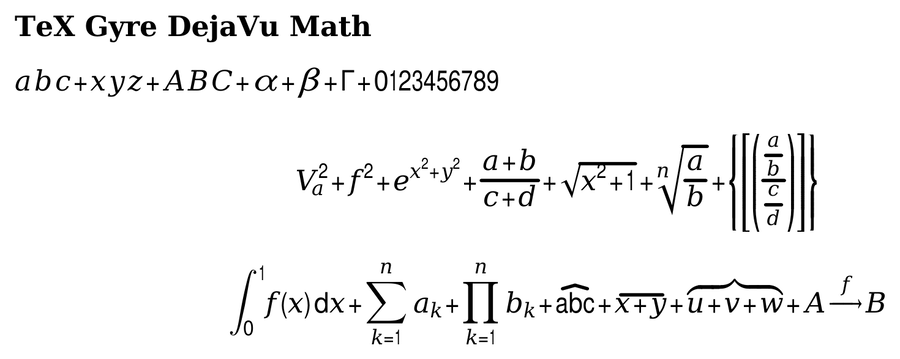
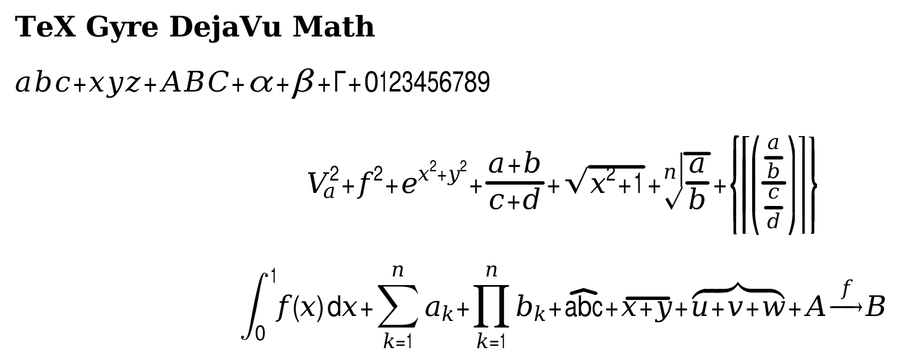
Name font companions by master, and stop the log spam
Opening a sample in the editor printed thousands of lines. Three causes.

A profile named its companions by family, where the font selection is
driven by masters: the master of "Fira Sans" is "Fira" and the master of
"KpRoman" is "Kepler", so five groups of profiles (DejaVu, Libertinus,
Kp, Fira, IBM Plex) never resolved and fell back to the feature distance,
printing "missing 'Fira Sans' master" at every lookup. They name masters
now, and profile_fix translates whatever it produces through the new
font_database_master, which answers from the features database without
guessing and without printing, so a profile that names a family still
resolves. font-features.scm gains ten entries for profiled math fonts it
did not know, TeX Gyre DejaVu Math and Lete Sans Math among them.

The visible effect: the text of a Fira Math document is Fira Sans and not
the default serif, math typewriter of KpMath is KpMono, and the emulated
script and blackboard bold alphabets of TeX Gyre DejaVu Math are spaced
correctly. Three sample pages and two gallery specimens change, all in
that direction; the rest is unchanged to the pixel.

"parse_mathtable : glyphCoverageFormat 20 not supported" was a NULL
offset of the kind already fixed in MathGlyphInfo: the vertical and
horizontal glyph coverage offsets of MathVariants may be zero, and the
parser then read minConnectorOverlap as a coverage format, which is where
the 20 and the 100 came from. The kern info and italic correction
[…]

diff --git a/src/Plugins/Freetype/tt_tools.cpp b/src/Plugins/Freetype/tt_tools.cpp
@@ -494,7 +494,7 @@ parse_coverage_table (const string& tt, int offset) {
     }
   }
   else {
-    cout << "parse_mathtable : glyphCoverageFormat " << format
+    cout << "parse_coverage_table : coverage format " << format
          << " not supported." << LF;
   }
   return coverage;
@@ -611,6 +611,7 @@ parse_math_kern_info_table (const string& tt, int offset,
                             hashmap<unsigned int, MathKernInfoRecord>& table) {
   unsigned int mathKernCoverageOffset= get_U16 (tt, offset);
   // unsigned int mathKernCount          = get_U16 (tt, offset + 2);
+  if (mathKernCoverageOffset == 0) return; // no coverage, no kerning
   auto coverage= parse_coverage_table (tt, offset + mathKernCoverageOffset);
   int  coverage_N= N (coverage);
   for (unsigned int i= 0; i < coverage_N; i++) {
@@ -651,6 +652,7 @@ static void
 parse_record_with_coverage (
     const string& tt, int parent_table_offset, int coverage_offset,
     int record_offset, hashmap<unsigned int, MathValueRecord>& record_map) {
+  if (coverage_offset == 0) return; // NULL coverage: nothing is covered
   int coverage_abs_offset = parent_table_offset + coverage_offset;
   array<unsigned int> coverage= parse_coverage_table (tt, coverage_abs_offset);
   int record_abs_offset= parent_table_offset + record_offset;
@@ -752,10 +754,13 @@ parse_mathtable (const string& buf) {
 
   // math variants
   table->minConnectorOverlap= get_U16 (tt, mathVariantsOffset + 0);
-  int vertGlyphCoverageOffset=
-      mathVariantsOffset + get_U16 (tt, mathVariantsOffset + 2);
-  int horizGlyphCoverageOffset=
-      mathVariantsOffset + get_U16 (tt, mathVariantsOffset + 4);
+  // both coverage offsets may be NULL, for a font with no vertical or no
+  // horizontal variants; adding zero to the parent offset would make the
+  // parser read minConnectorOverlap as a coverage format
+  int vertGlyphCoverageRel = get_U16 (tt, mathVariantsOffset + 2);
+  int horizGlyphCoverageRel= get_U16 (tt, mathVariantsOffset + 4);
+  int vertGlyphCoverageOffset = mathVariantsOffset + vertGlyphCoverageRel;
+  int horizGlyphCoverageOffset= mathVariantsOffset + horizGlyphCoverageRel;
   int vertGlyphCount= get_U16 (tt, mathVariantsOffset + 6);
   //int horizGlyphCount= get_U16 (tt, mathVariantsOffset + 8); // unused
 
@@ -764,16 +769,18 @@ parse_mathtable (const string& buf) {
 
   // parse vertical variants
   // cout << "parse vertical variants\n";
-  parse_variants (tt, mathVariantsOffset, vertGlyphCoverageOffset,
-                  mathVariantsOffset + 10, table->ver_glyph_variants,
-                  table->ver_glyph_variants_adv, table->ver_glyph_assembly);
+  if (vertGlyphCoverageRel > 0)
+    parse_variants (tt, mathVariantsOffset, vertGlyphCoverageOffset,
+                    mathVariantsOffset + 10, table->ver_glyph_variants,
+                    table->ver_glyph_variants_adv, table->ver_glyph_assembly);
 
   // parse horizontal variants
   // cout << "parse horizontal variants\n";
-  parse_variants (tt, mathVariantsOffset, horizGlyphCoverageOffset,
-                  mathVariantsOffset + 10 + 2 * vertGlyphCount,
-                  table->hor_glyph_variants, table->hor_glyph_variants_adv,
-                  table->hor_glyph_assembly);
+  if (horizGlyphCoverageRel > 0)
+    parse_variants (tt, mathVariantsOffset, horizGlyphCoverageOffset,
+                    mathVariantsOffset + 10 + 2 * vertGlyphCount,
+                    table->hor_glyph_variants, table->hor_glyph_variants_adv,
+                    table->hor_glyph_assembly);
 
   return table;
 }
@@ -791,6 +798,12 @@ parse_gsub_subtable (const string& gsub, int type, int off, ot_gsub_map& m) {
     return;
   }
   int format= get_U16 (gsub, off);
+  // Only single (type 1) and alternate (type 3) substitutions are read. In
+  // any other lookup the fields below mean something else, so the coverage
+  // table must not even be parsed: it would read garbage and complain.
+  if (!((type == 1 && (format == 1 || format == 2)) ||
+        (type == 3 && format == 1)))
+    return;
   int cov_off= get_U16 (gsub, off + 2);
   array<unsigned int> cov= parse_coverage_table (gsub, off + cov_off);
   if (type == 1 && format == 1) {
@@ -920,6 +933,7 @@ parse_class_def (const string& t, int off, hashmap<unsigned int, int>& m) {
 static void
 parse_pair_pos (const string& t, int off, ot_gpos_kern_rep* r) {
   int format  = get_U16 (t, off);
+  if (format != 1 && format != 2) return;
   int cov_off = get_U16 (t, off + 2);
   int vf1     = get_U16 (t, off + 4);
   int vf2     = get_U16 (t, off + 6);

diff --git a/src/Graphics/Fonts/font_select.cpp b/src/Graphics/Fonts/font_select.cpp
@@ -10,6 +10,7 @@
 ******************************************************************************/
 
 #include "font.hpp"
+#include "hashset.hpp"
 #include "Freetype/tt_tools.hpp"
 #include "analyze.hpp"
 
@@ -267,6 +268,18 @@ Replace (string s, string w, string b) {
   return s (0, 1) * replace (s (1, N(s)), w, b);
 }
 
+// A name which is neither a known family nor a known master is reported
+// once and not at every lookup: a document in a font the database does not
+// know used to print thousands of identical lines while it was typeset.
+static bool
+report_once (string kind, string name) {
+  static hashset<string> seen;
+  string key= kind * ":" * name;
+  if (seen->contains (key)) return false;
+  seen->insert (key);
+  return true;
+}
+
 string
 family_to_master (string f) {
   if (occurs (",", f) && occurs ("=", f)) f= main_family (f);
@@ -274,7 +287,8 @@ family_to_master (string f) {
   font_database_load ();
   if (!font_features->contains (tree (f)) &&
       f != "tcx" && f != "tc") {
-    cout << "TeXmacs] missing '" << f << "' family\n";
+    if (report_once ("family", f))
+      cout << "TeXmacs] missing '" << f << "' family\n";
     font_database_global_load ();
   }
   if (font_features->contains (tree (f))) {
@@ -328,7 +342,8 @@ master_to_families (string m) {
   font_database_load ();
   if (!font_variants->contains (tree (m)) &&
       m != "tcx" && m != "tc") {
-    cout << "TeXmacs] missing '" << m << "' master\n";
+    if (report_once ("master", m))
+      cout << "TeXmacs] missing '" << m << "' master\n";
     font_database_global_load ();
   }
   array<string> r;

diff --git a/tests/Graphics/Fonts/opentype_font_test.cpp b/tests/Graphics/Fonts/opentype_font_test.cpp
@@ -565,7 +565,6 @@ TestOpenTypeFont::test_profile_file () {
   known->insert ("mono"); known->insert ("letters");
   known->insert ("bold-math"); known->insert ("menu"); known->insert ("group");
   hashset<string> names, texts;
-  array<string> boldmaths;
   int nr_profiles= 0, nr_installed= 0;
   for (int i=0; i<N(forms); i++) {
     scheme_tree f= forms[i];
@@ -614,7 +613,6 @@ TestOpenTypeFont::test_profile_file () {
       first_claim= !texts->contains (val["text"]);
       texts->insert (val["text"]);
     }
-    if (val->contains ("bold-math")) boldmaths << val["bold-math"];
     // the table and its accessors must return what the file declares
     math_font_profile_set (name, props);
     QCOMPARE (math_font_profile_attr (name, "file"), val["file"]);
@@ -642,10 +640,9 @@ TestOpenTypeFont::test_profile_file () {
   }
   QVERIFY2 (nr_profiles >= 15,
             as_charp ("only " * as_string (nr_profiles) * " profiles read"));
-  // a bold math family must be a family of its own or one that is profiled
-  for (int i=0; i<N(boldmaths); i++)
-    QVERIFY2 (names->contains (boldmaths[i]),
-              as_charp ("bold-math " * boldmaths[i] * " has no profile"));
+  // The companions (text, sans, mono, bold-math) are master names, the way
+  // the font environment variable names a font, not family names; the test
+  // does not resolve them, see section 7.5 of doc/opentype-math-design.md.
   QVERIFY2 (nr_installed >= 1, "no profiled math font is installed");
 }
 

diff --git a/src/Graphics/Fonts/font_database.cpp b/src/Graphics/Fonts/font_database.cpp
@@ -737,6 +737,23 @@ font_database_search (string fam, string var, string series, string shape) {
   return font_database_search (pfn[0], pfn[1]);
 }
 
+// The master a family belongs to ("Fira" for "Fira Sans", "Kepler Math" for
+// "KpMath"), or "" when the features database does not know the family. The
+// font selection is driven by masters, so a name that comes from elsewhere
+// has to be translated before it is used as a font. Unlike family_to_master,
+// this says so instead of guessing, and it prints nothing.
+string
+font_database_master (string family) {
+  font_database_load ();
+  if (!font_features->contains (tree (family))) {
+    font_database_global_load ();
+    if (!font_features->contains (tree (family))) return "";
+  }
+  tree t= font_features [tree (family)];
+  if (is_func (t, TUPLE) && N(t) >= 1 && is_atomic (t[0])) return t[0]->label;
+  return "";
+}
+
 array<string>
 font_database_characteristics (string family, string style) {
   font_database_load ();

diff --git a/src/Graphics/Fonts/smart_font.cpp b/src/Graphics/Fonts/smart_font.cpp
@@ -678,10 +678,16 @@ profile_fix (string family, string variant, string series, string shape) {
           string comp= math_font_profile_attr (item, key);
           if (comp != "" && N (font_database_styles (comp)) > 0) item= comp;
         }
+        // the font selection is driven by masters, and a profile names a
+        // family when the two differ ("KpMath" belongs to "Kepler Math")
+        string mst= font_database_master (item);
+        if (mst != "") item= mst;
       }
       else {
         string t= text_family_for_math (item);
         if (t != "" && t != item) item= t;
+        string mst= font_database_master (item);
+        if (mst != "") item= mst;
       }
     }
     r << item;

diff --git a/src/Graphics/Fonts/font.hpp b/src/Graphics/Fonts/font.hpp
@@ -339,6 +339,7 @@ void font_database_save_local_delta ();
 array<string> font_database_families ();
 array<string> font_database_delta_families ();
 array<string> font_database_styles (string family);
+string        font_database_master (string family);
 array<string> font_database_global_styles (string family);
 array<string> font_database_search (string family, string style);
 array<string> font_database_search (string fam, string var,

diff --git a/doc/opentype-math-design.md b/doc/opentype-math-design.md
@@ -535,6 +535,36 @@ TM_TEST_FONT_DIR=/path/to/fonts tests/opentype/render-samples.sh
   of 68 against 135, and Asana Math for tighter gaps than its limits, so
   those two change. Big operators keep the limit constants.
 
+- **Masters, not families, and a quiet log.** Opening a sample in the
+  editor printed thousands of lines: `missing 'Fira Sans' master`,
+  `missing 'KpMath' master`, and `glyphCoverageFormat 20 not supported`.
+  Three causes, all now fixed.
+
+  The font selection is driven by *masters*, the second field of an entry
+  of `font-features.scm` ("Fira" for the family "Fira Sans", "Kepler" for
+  "KpRoman"), and the profiles named families. Five groups were wrong:
+  DejaVu, Libertinus, Kp, Fira and IBM Plex. Their companions are masters
+  now, and `profile_fix` translates whatever it produces through the new
+  `font_database_master`, which answers from the features database without
+  guessing and without printing, so a profile that names a family still
+  resolves. Ten entries were added to `font-features.scm` for profiled math
+  fonts it did not know, among them TeX Gyre DejaVu Math and Lete Sans
+  Math. The visible effect: the text of a Fira Math document is Fira Sans
+  and not the default serif, math typewriter of KpMath is KpMono, and the
+  emulated script and blackboard bold alphabets of TeX Gyre DejaVu Math
+  are spaced correctly.
+
+  The coverage warnings were a NULL offset of the same kind as the ones
+  fixed in `MathGlyphInfo`: `vertGlyphCoverageOffset` and
+  `horizGlyphCoverageOffset` may be zero, and the parser then read
+  `minConnectorOverlap` as a coverage format — the "format 20" and
+  "format 100" of the message were that value. The MathKernInfo and the
+  italic correction coverages are guarded the same way, and
+  `parse_gsub_subtable` no longer parses a coverage table for a lookup type
+  it does not handle. Finally, a missing family or master is reported once
+  instead of at every lookup. What is left of the log of a full sample is
+  two lines.
+
 ## 6. Known defects still open
 
 1. `ysup_hi_lim` has no MATH counterpart and is set to
@@ -910,7 +940,7 @@ Met, with three things worth naming exactly:
   size or kerning.
 - The profile test checks the math font of every profile, its family name
   and its MATH table, but not that the text, sans and typewriter
-  companions it names are installed.
+  companions it names exist as masters or are installed.
 
 Everything under "What is still missing" is either deliberate
 (`delimitedSubFormulaMinHeight`, the device tables, the stack constants

diff --git a/src/OPENTYPEMATH.md b/src/OPENTYPEMATH.md
@@ -72,7 +72,8 @@ of them was set with no kerning at all.
 `TeXmacs/progs/fonts/fonts-opentype.scm`). What the MATH table cannot say:
 the text, sans serif and typewriter companions of a math font, whether math
 letters come from the math font or from the text italic, the menu label.
-Twenty fonts are profiled. A text family typesets its formulas in its math
+Twenty fonts are profiled, and a companion is named by its master, the way
+the `font` environment variable names a font, not by its family. A text family typesets its formulas in its math
 companion and the other way round, math sans serif and math typewriter use
 the declared companions, and the "Mathematical font" menu lists the profiled
 fonts that are installed.
@@ -224,7 +225,7 @@ The short version, with the details in section 7 of
   place accents with `mark`/`mkmk` rather than with the top accent
   attachment.
 - The profile test checks each math font, its family name and its MATH table,
-  but not that the companion families a profile names are installed.
+  but not that the companion masters a profile names exist or are installed.
 - Glyphs TeXmacs glues itself still export as Type 3 bitmap fonts, where the
   PDF writer could place the parts as vectors. The MATH variants and
   assemblies are not affected: they come out of the embedded font subsets.
